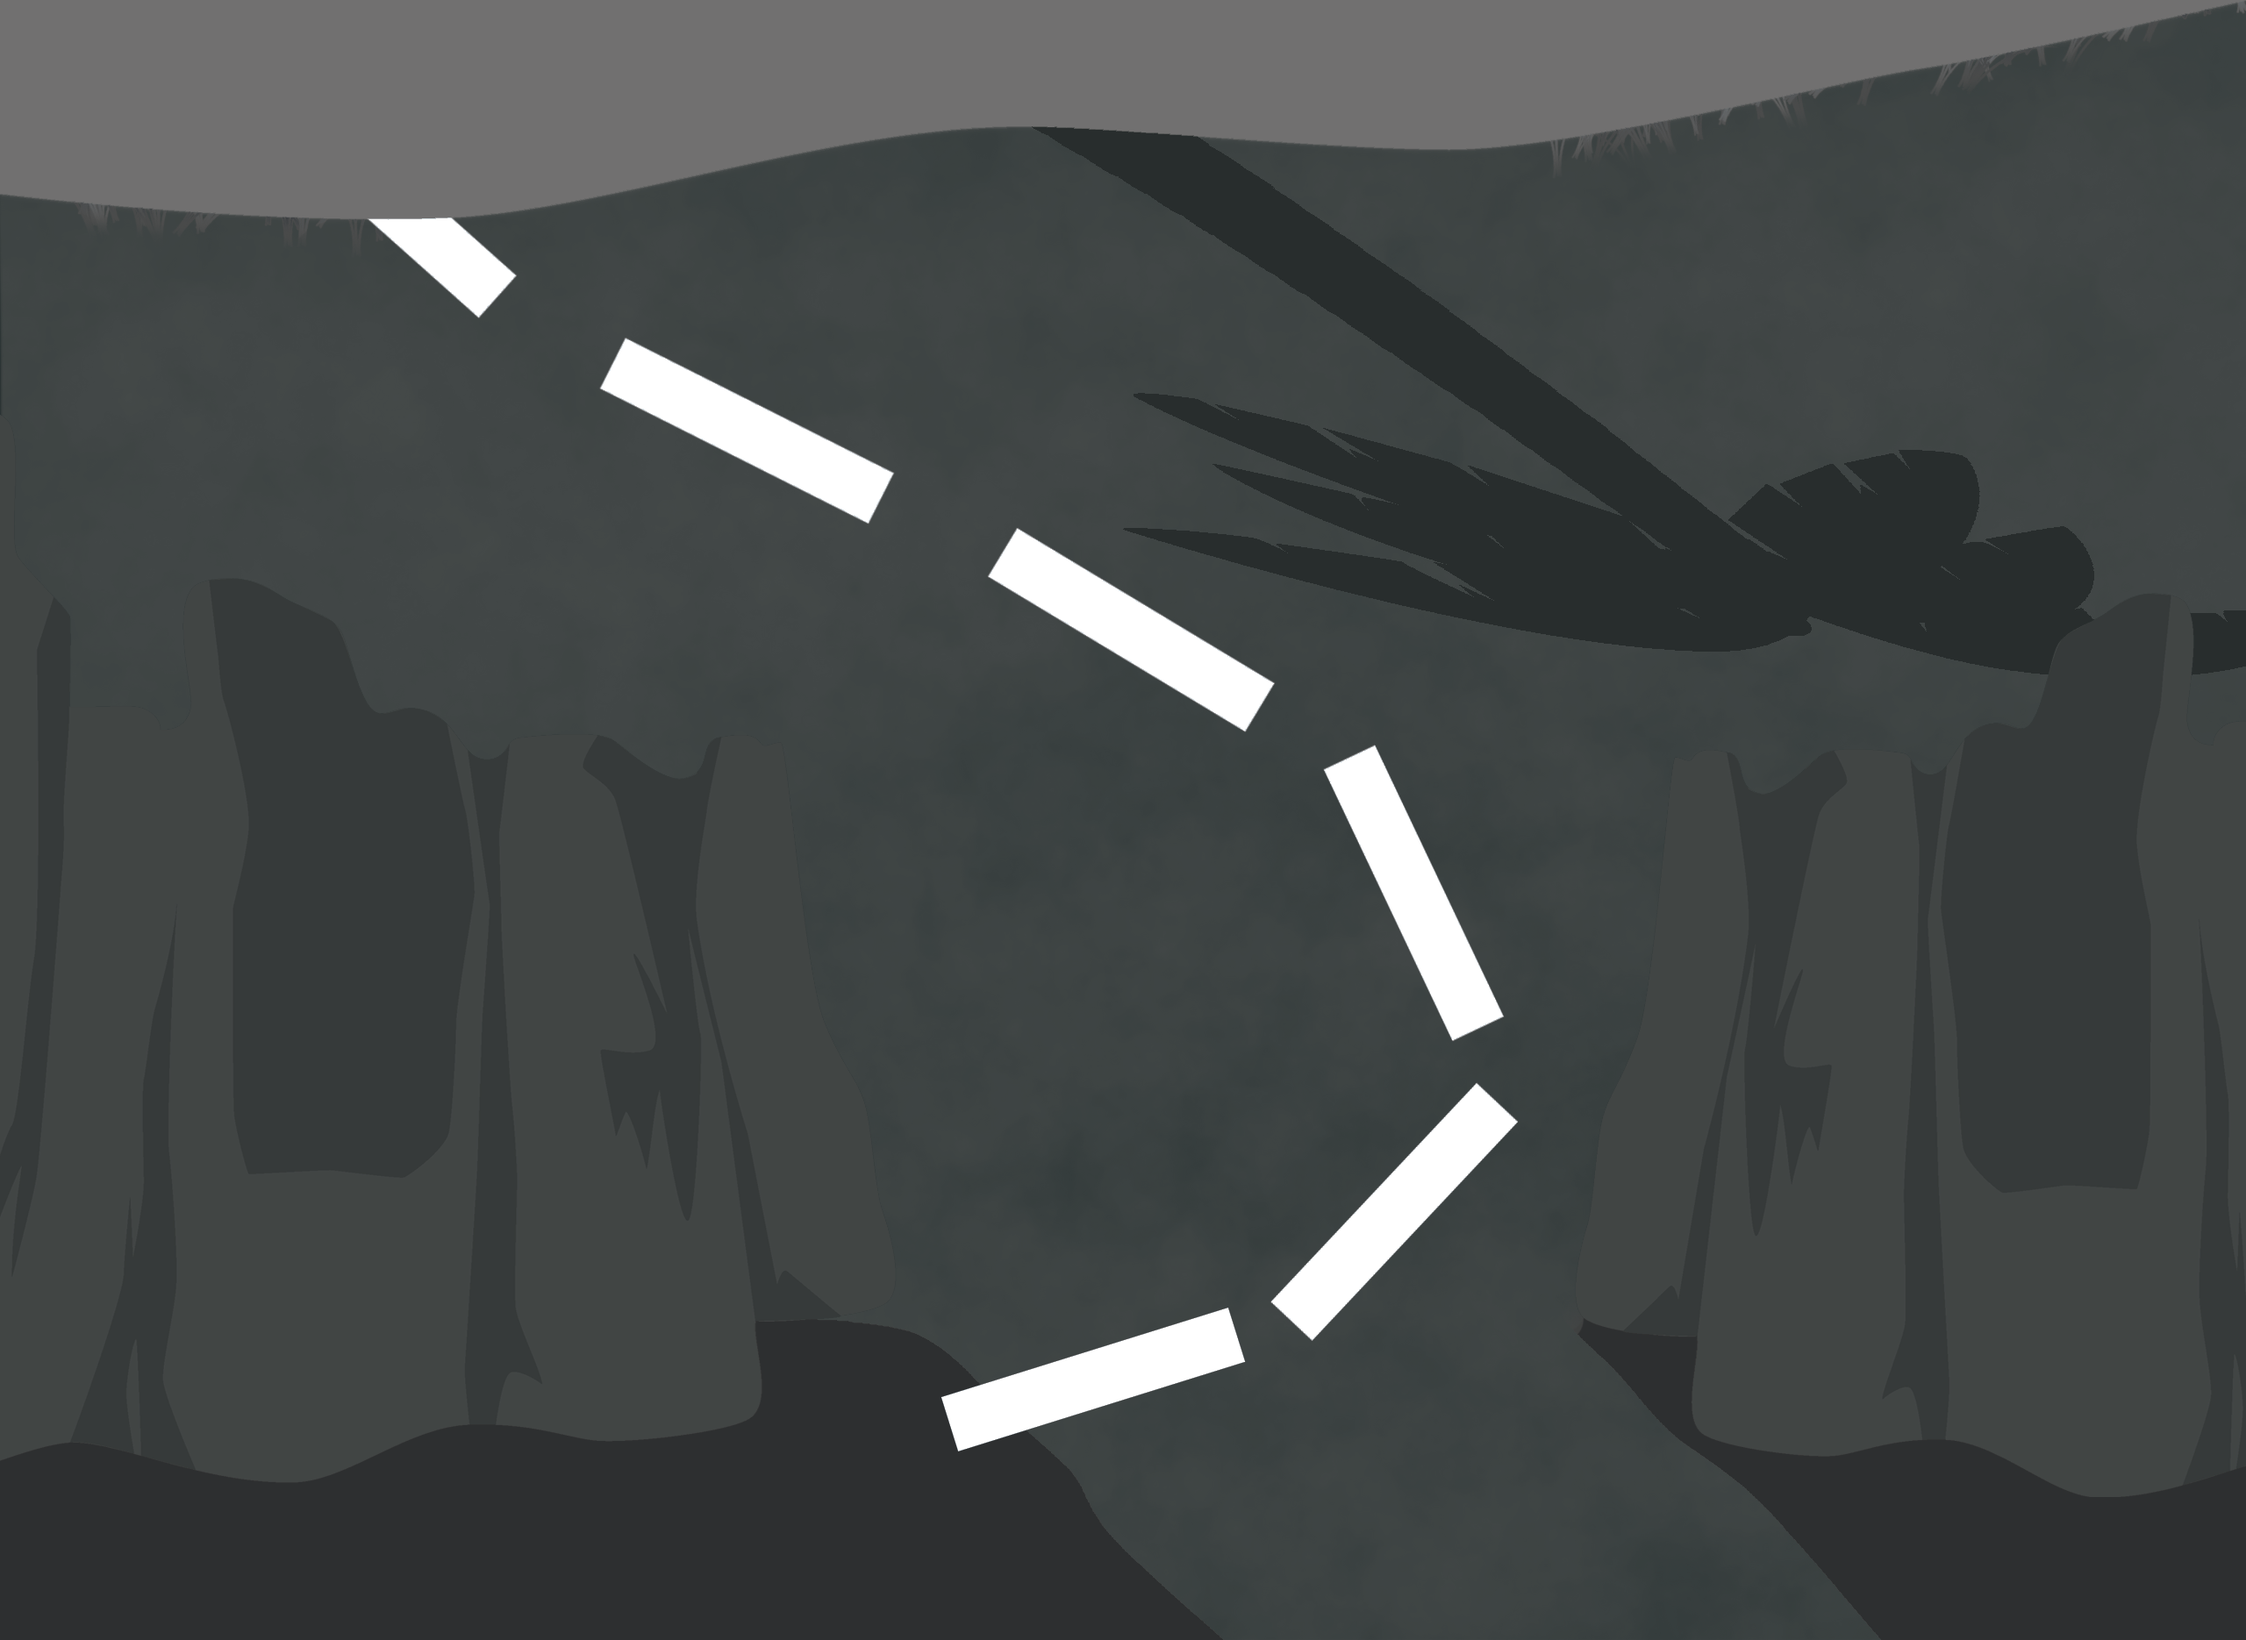
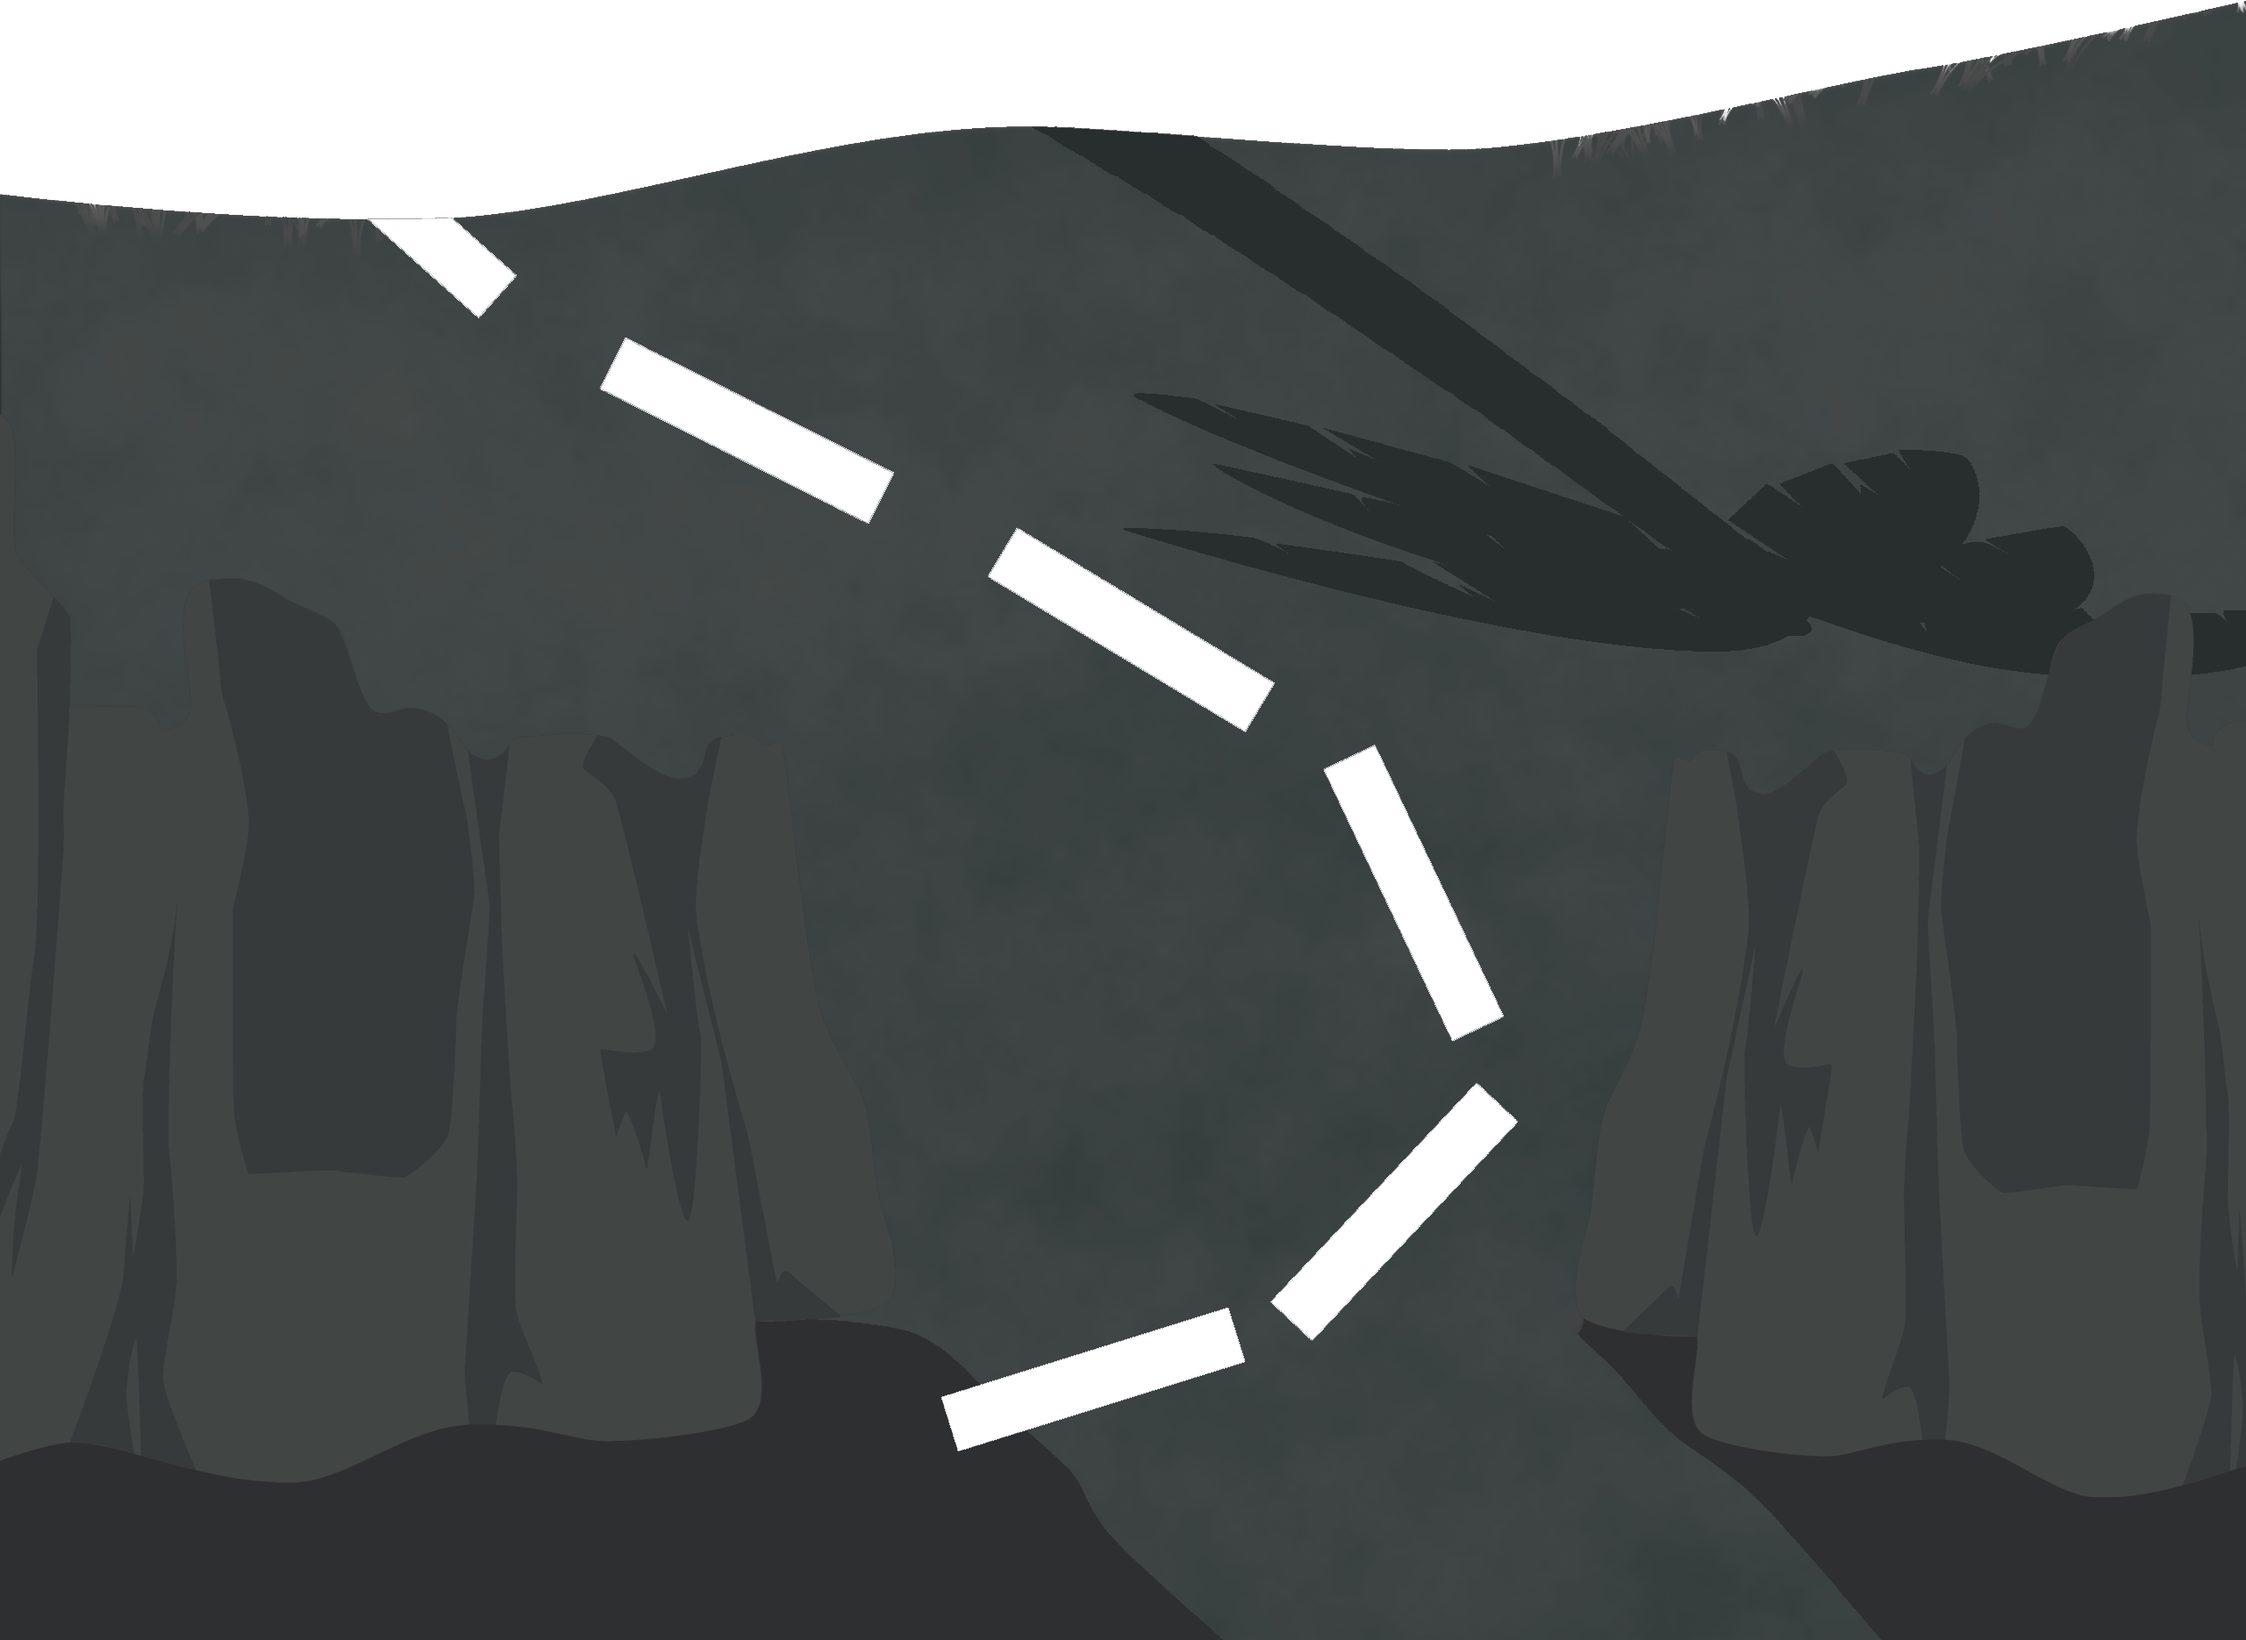
Levels and overlays mostly complete
overlay 13-18 is a bit off, but when I try to adjust it with sliders, the view of it becomes perfect. I tried to update manually by changing the 3rd number after the decimal in overlay13 bottom to 5 instead of 4 something. Originally 0.224211106555018

Changed region(s): [[0.0, 0.0, 1.0, 0.1551]]

diff --git a/macos/Flutter/GeneratedPluginRegistrant.swift b/macos/Flutter/GeneratedPluginRegistrant.swift
@@ -1,0 +1,10 @@
+//
+//  Generated file. Do not edit.
+//
+
+import FlutterMacOS
+import Foundation
+
+
+func RegisterGeneratedPlugins(registry: FlutterPluginRegistry) {
+}

diff --git a/linux/flutter/generated_plugin_registrant.h b/linux/flutter/generated_plugin_registrant.h
@@ -1,0 +1,15 @@
+//
+//  Generated file. Do not edit.
+//
+
+// clang-format off
+
+#ifndef GENERATED_PLUGIN_REGISTRANT_
+#define GENERATED_PLUGIN_REGISTRANT_
+
+#include <flutter_linux/flutter_linux.h>
+
+// Registers Flutter plugins.
+void fl_register_plugins(FlPluginRegistry* registry);
+
+#endif  // GENERATED_PLUGIN_REGISTRANT_

diff --git a/linux/flutter/generated_plugin_registrant.cc b/linux/flutter/generated_plugin_registrant.cc
@@ -1,0 +1,11 @@
+//
+//  Generated file. Do not edit.
+//
+
+// clang-format off
+
+#include "generated_plugin_registrant.h"
+
+
+void fl_register_plugins(FlPluginRegistry* registry) {
+}
